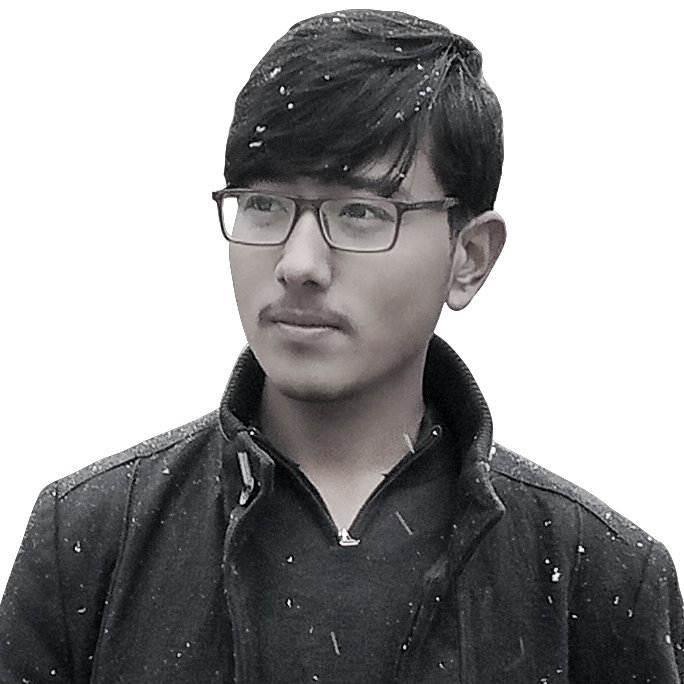
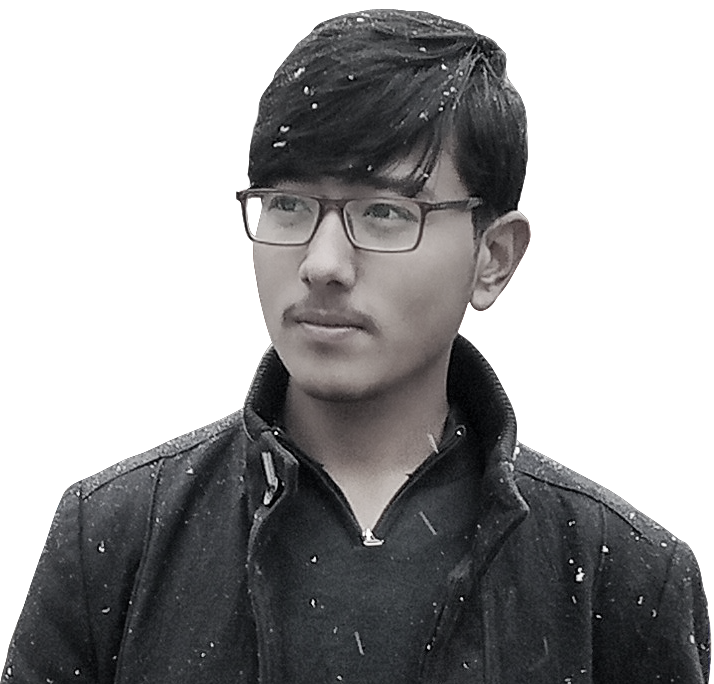
creating header

diff --git a/src/components/Header.jsx b/src/components/Header.jsx
@@ -2,29 +2,40 @@ import React from 'react'
 import Snowfall from '../extraComponents/Snowfall';
 import Navbar from './Navbar';
 import myPic from '../assets/img/my-picture.png';
+import { Link } from 'react-router';
 
 export default function Header() {
   return (
-    <div className='w-full h-full bg-dark-gray p-40-80 relative'>
+
+    <div className='w-full h-auto bg-dark-gray justify-items-center p-40-80 relative'>
       <div className="container mx-auto w-full relative z-10">
         <Navbar />
 
-        <header className='flex w-full h-full justify-center relative z-10'>
-          <div>
+        <header className='w-[95%] h-full justify-center lg:flex grid relative z-10'>
+          
+          <div className='content-center'>
             <span className='flex'>
-              <h4 className='text-white'>I'M</h4>
-              <h1 className='text-yellow-text text-[45px] font-poppins-medium'>Agha Naveed</h1>
+              <h4 className='text-white font-poppins-light text-2xl'>I'M</h4>
+              <h1 className='text-yellow-text text-[60px] font-poppins-medium w-[90%]'>Agha Naveed</h1>
             </span>
+
+
+            <span>
+              <h3 className='text-white font-poppins-regular text-[32px] mb-8'>Web Developer / Programmer</h3>
+            </span>
+
+            <Link className='text-yellow-text text-[26px] border-[4px] rounded-lg border-yellow-text px-7 py-3 mt-5'>Contact Me</Link>
             
           </div>
-          <div className='w-[85%]'>
-            <img src={myPic} className='w-full' alt="Agha Naveed Image" />
+          
+          <div className='w-fit'>
+            <img src={myPic} decoding='async' className='w-full relative top-[40px]' alt="Agha Naveed Image" />
           </div>
         </header>
 
       </div>
 
-      <div className="absolute top-0 left-0 w-full h-full z-0">
+      <div className="absolute top-0 left-0 w-full z-0">
         <Snowfall />
       </div>
     </div>

diff --git a/src/components/Navbar.jsx b/src/components/Navbar.jsx
@@ -35,8 +35,8 @@ export default function Navbar() {
         <nav className='content-center text-text-clr text-[18.5px]'>
           <ul className='flex'>
             <li><Link to={"/"} className='px-[18px] py-[8px] !text-white'>Home</Link></li>
-            <li><Link to={"/a"} className='px-[18px] py-[8px]'>Skills</Link></li>
-            <li><Link to={"/b"} className='px-[18px] py-[8px]'>Projects</Link></li>
+            <li><Link to={"/a"} className='px-[18px] transition-all hover:text-white py-[8px]'>Skills</Link></li>
+            <li><Link to={"/b"} className='px-[18px] transition-all hover:text-white py-[8px]'>Projects</Link></li>
           </ul>
         </nav>
 

diff --git a/tailwind.config.js b/tailwind.config.js
@@ -13,6 +13,7 @@ export default {
         "yellow-text": "#FFC86B"
       },
       fontFamily: {
+        "poppins-light": ['poppins-light'],
         "poppins-regular": ['poppins-regular'],
         "poppins-medium": ['poppins-medium'],
         "poppins-semibold": ['poppins-semibold'],

diff --git a/src/index.css b/src/index.css
@@ -3,6 +3,10 @@
 @tailwind utilities;
 
 @font-face {
+    font-family: 'poppins-light';
+    src: url("./assets/font/Poppins-Light.ttf");
+}
+@font-face {
     font-family: 'poppins-regular';
     src: url("./assets/font/Poppins-Regular.ttf");
 }
